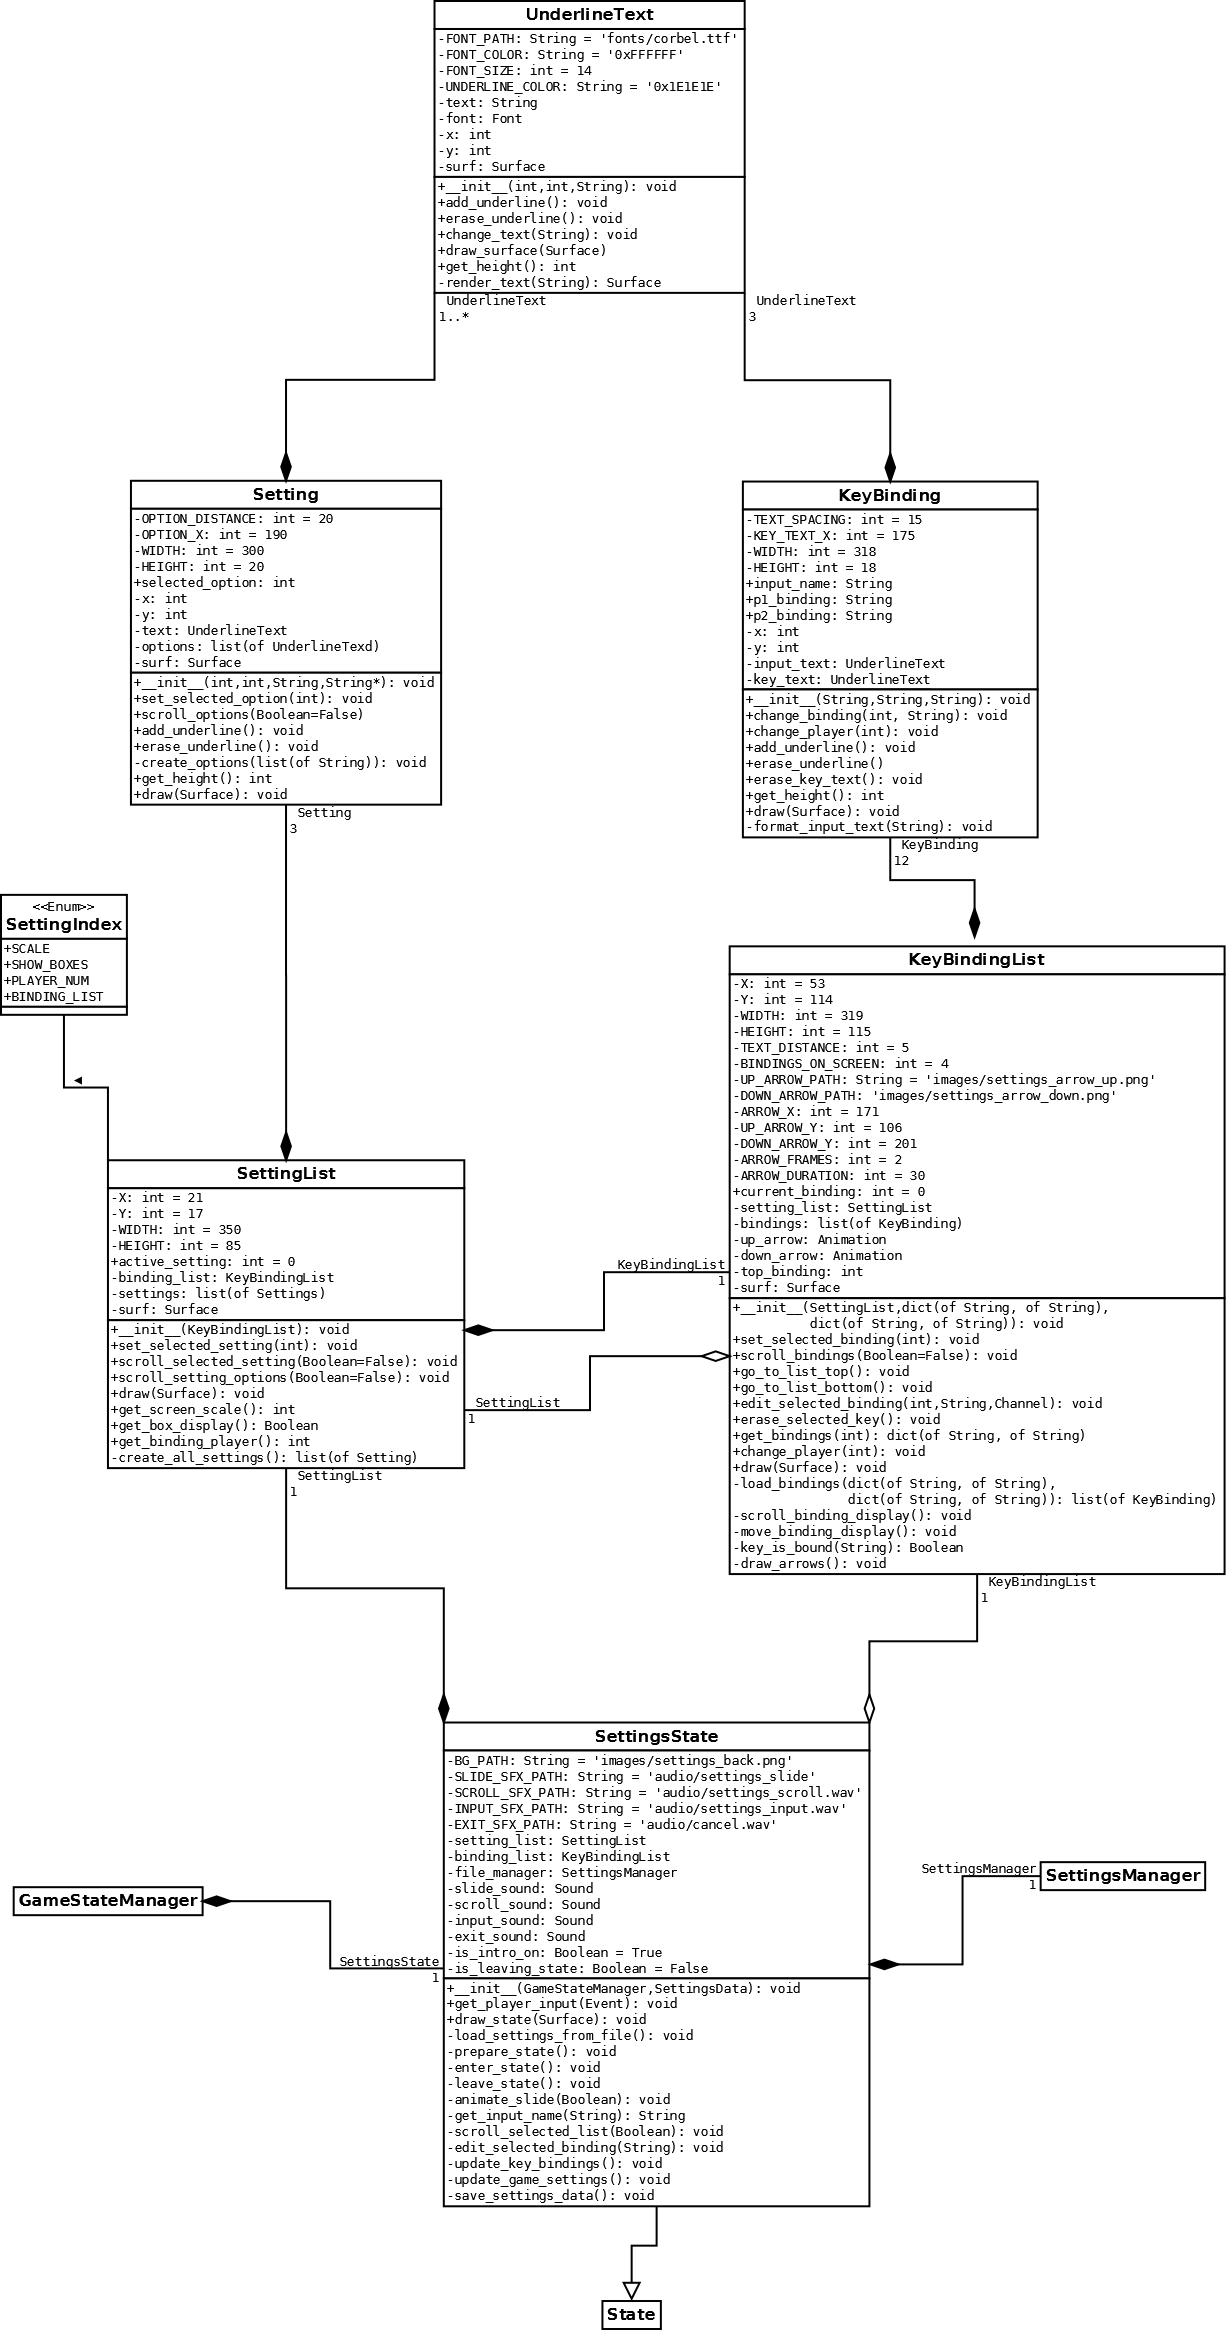
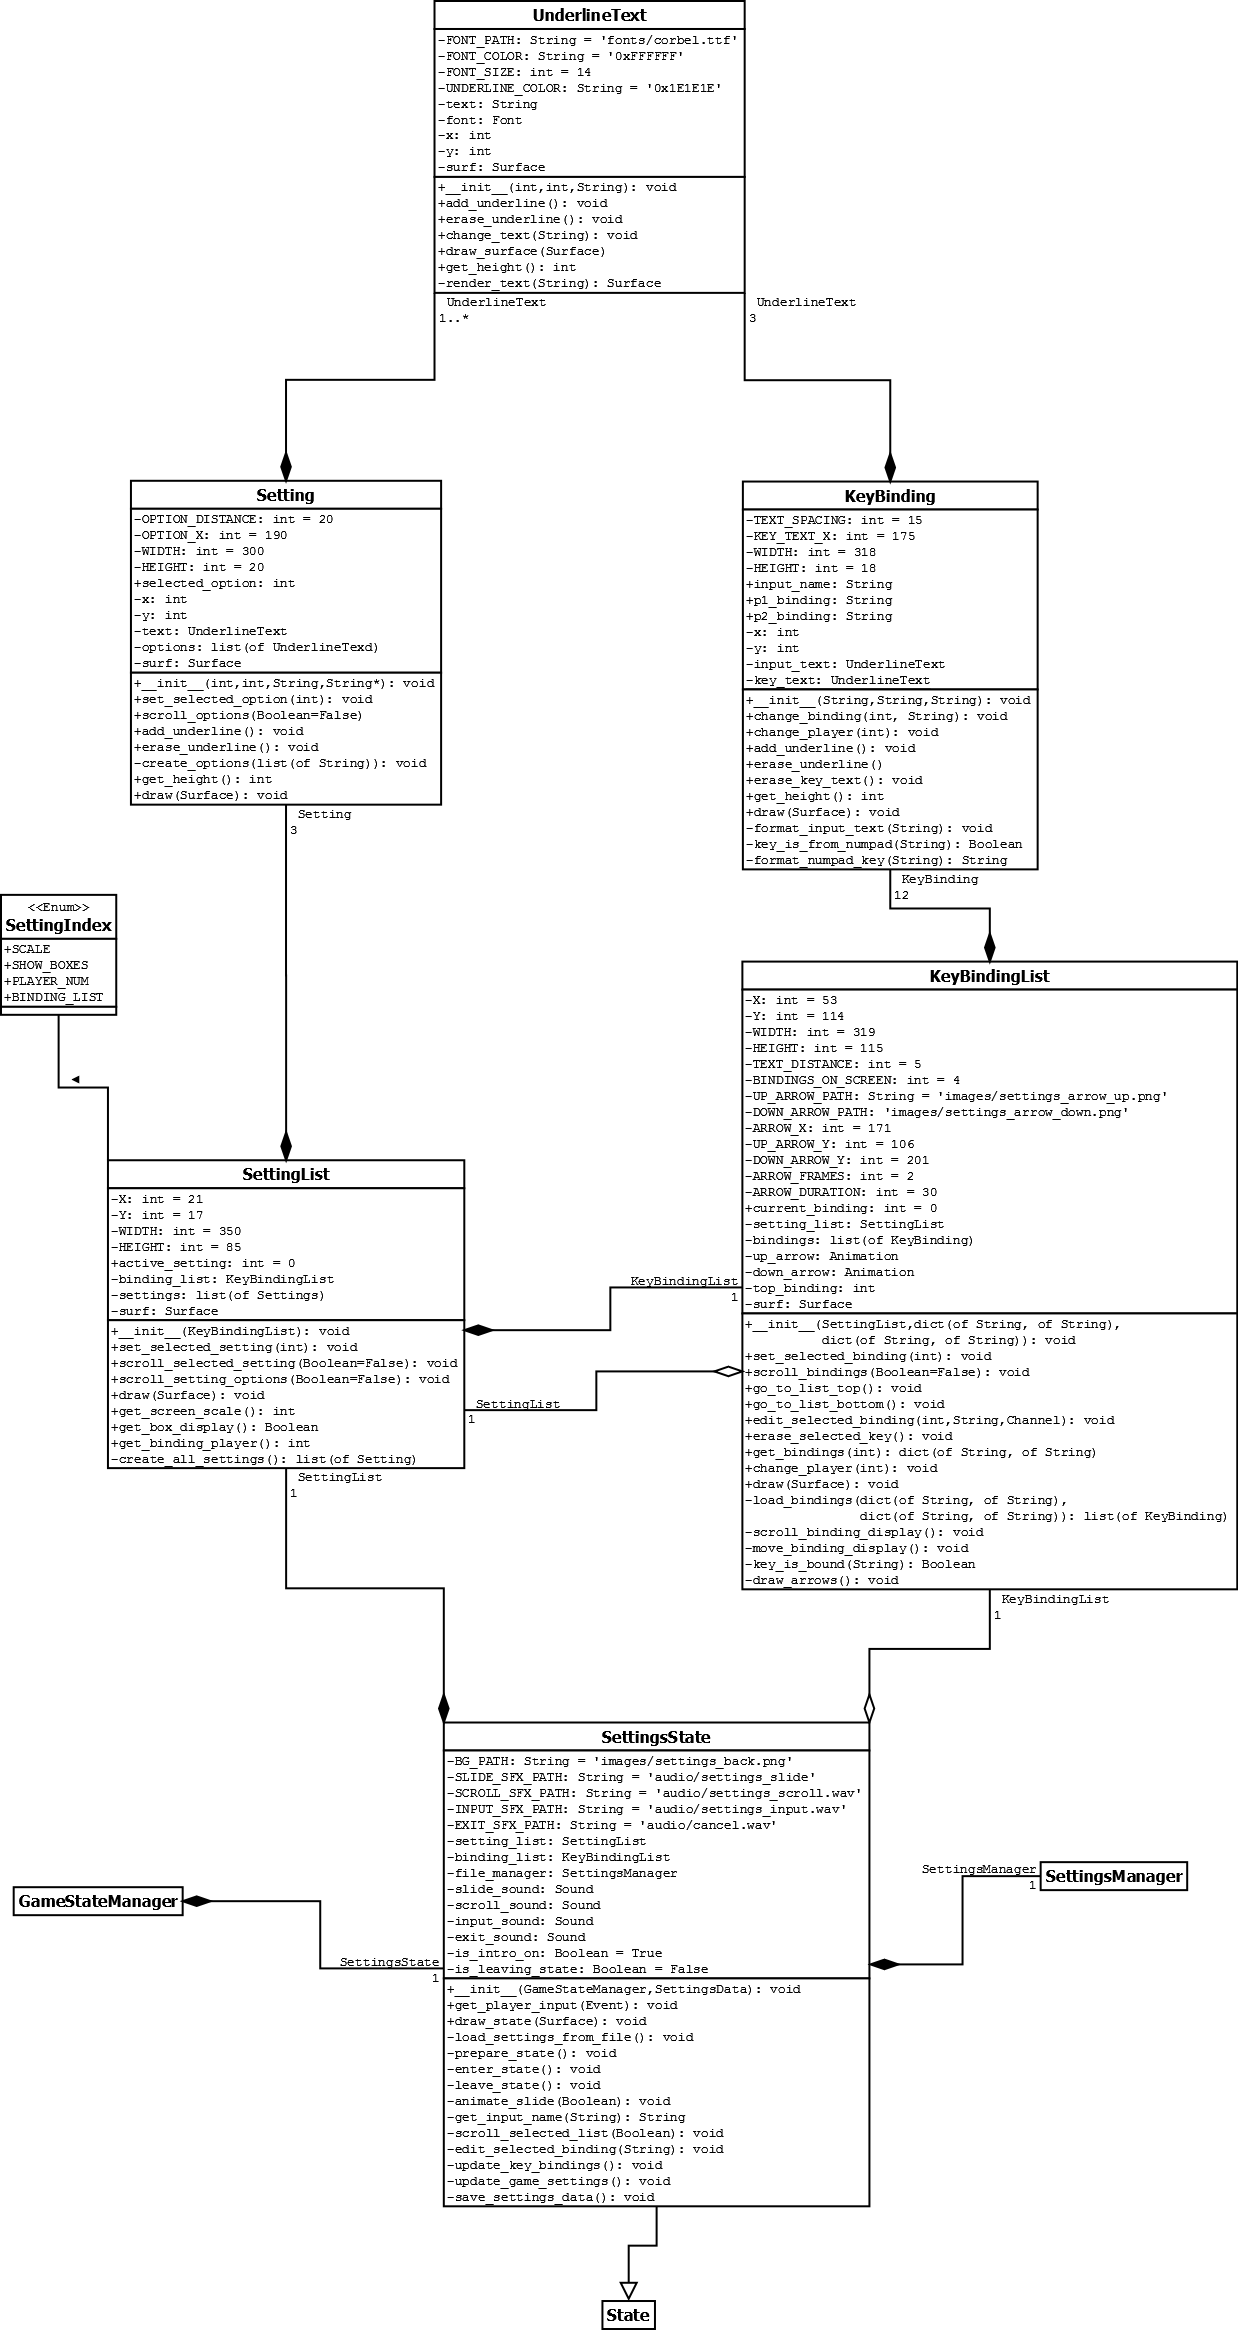
Give a more descriptive name to Numpad keys
500 commits!

diff --git a/lib/game_states/settings_state.py b/lib/game_states/settings_state.py
@@ -1079,7 +1079,38 @@ class KeyBinding(object):
         else:
             self.p2_binding = new_key
 
-        self.key_text.change_text(new_key)
+        if self.key_is_from_numpad(new_key):
+            self.key_text.change_text(self.format_numpad_key(new_key))
+        else:
+            self.key_text.change_text(new_key)
+
+    @staticmethod
+    def key_is_from_numpad(key_name):
+        """Return a Boolean indicating whether the specified key is a Numpad
+        key.
+
+        Args:
+            key_name: A String for the name of the key to check.
+        """
+        if len(key_name) == 3 and key_name[0] == "[":
+            return True
+        else:
+            return False
+
+    @staticmethod
+    def format_numpad_key(key_name):
+        """Convert the name of a Numpad key into a more descriptive name.
+
+        For example, Numpad 3 is read from pygame.key as '[3]'. This would be
+        converted into 'Numpad 3' via this function.
+
+        Args:
+            key_name: A String for the name of a Numpad key.
+
+        Returns:
+            A String for the converted Numpad key name.
+        """
+        return 'Numpad ' + key_name[1]
 
     def change_player(self, player_num):
         """Display the key binding for one of the players.
@@ -1089,9 +1120,14 @@ class KeyBinding(object):
                 respectively. Any other value will default to 2.
         """
         if player_num == 1:
-            self.key_text.change_text(self.p1_binding)
+            new_key = self.p1_binding
         else:
-            self.key_text.change_text(self.p2_binding)
+            new_key = self.p2_binding
+
+        if self.key_is_from_numpad(new_key):
+            self.key_text.change_text(self.format_numpad_key(new_key))
+        else:
+            self.key_text.change_text(new_key)
 
     def add_underline(self):
         """Draw an underline on the input name text."""
